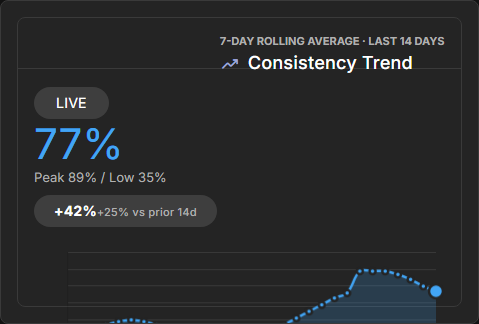
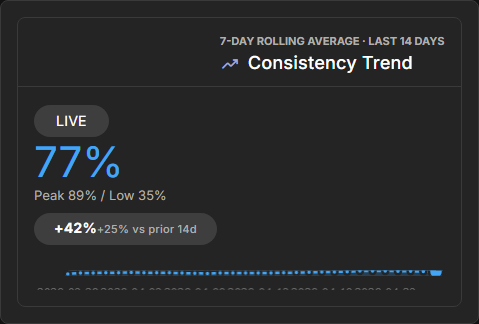
fix(tile-shell): make body a flex column so plot/bars can shrink
The body was `flex: 1 1 auto; min-height: 0` (a flex *child*) but
itself was `display: block`. Children inside (status pill, metric,
delta, plot) flowed normally with their natural sizes, so per-tile
`flex: 1 1 auto` rules on `.plot` / `.bars` were inert.

Add `display: flex; flex-direction: column` to .tile-shell__body so
flex children take remaining space.

Measured impact on the consistency-trend tile at default size:
- Before: plot 205px tall, overflowing the cell by 142px.
- After:  plot 29px tall, fully inside the body / cell.

The chart is small at this default size but no longer overflows.
28/28 dashboard + chart-tile e2e tests pass on lg-desktop.

Closes 074. (070's intent was the right idea, but only became
effective once the parent became a flex container.)

Changed region(s): [[0.0585, 0.2469, 0.4676, 0.7716], [0.1169, 0.8333, 0.9353, 1.0], [0.2338, 0.9568, 0.3215, 1.0]]

diff --git a/frontend/projects/commitments-ui/src/lib/tile-shell/tile-shell.component.scss b/frontend/projects/commitments-ui/src/lib/tile-shell/tile-shell.component.scss
@@ -70,6 +70,8 @@
 }
 
 .tile-shell__body {
+  display: flex;
+  flex-direction: column;
   flex: 1 1 auto;
   min-height: 0;
   padding-top: 14px;
